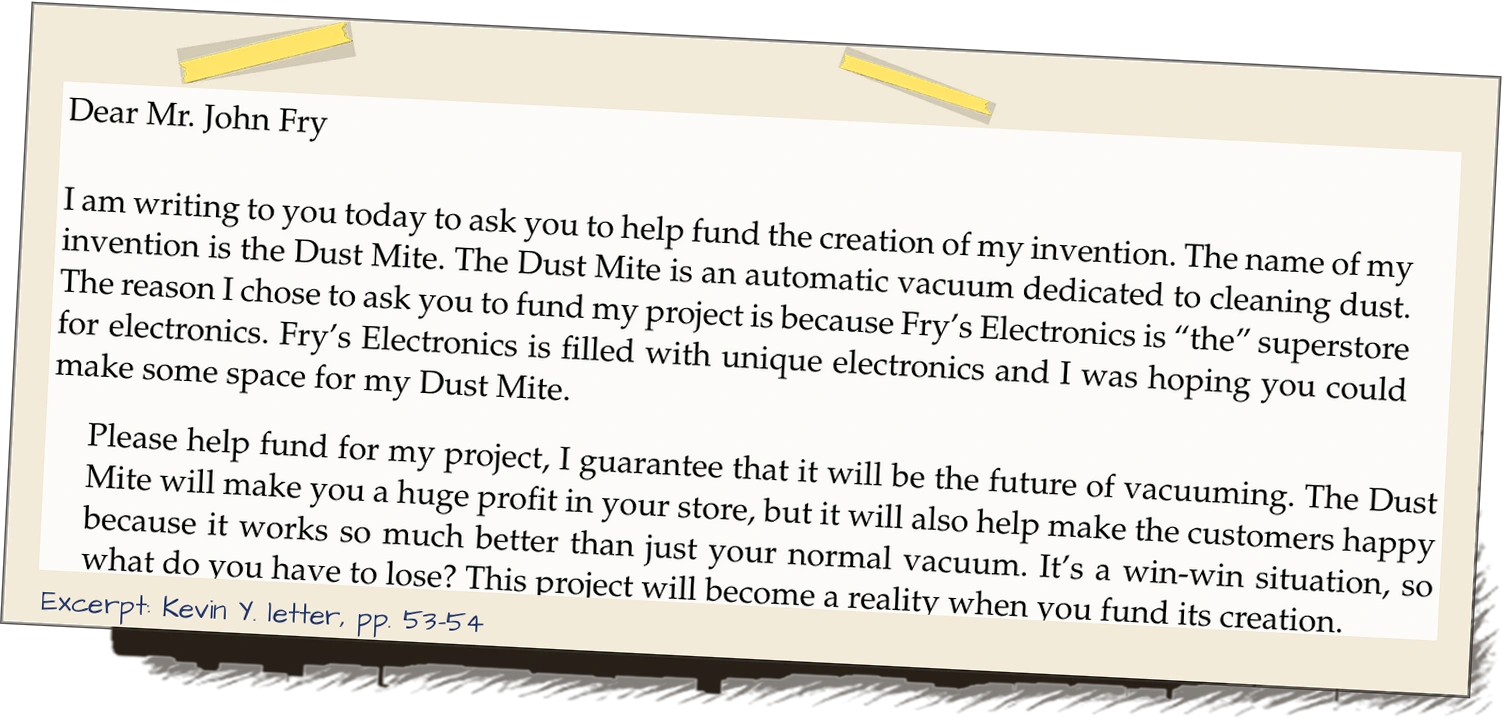
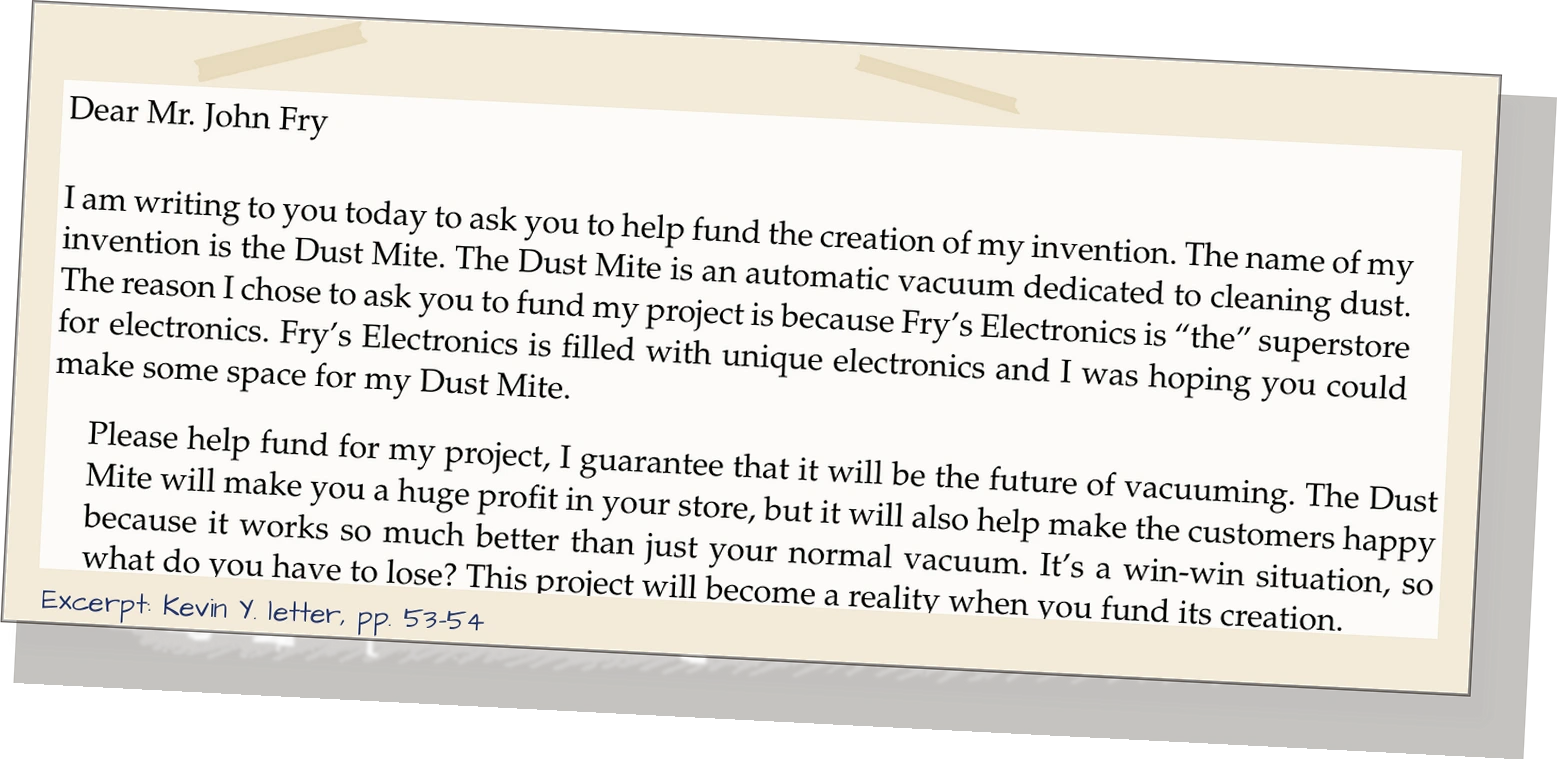
fix(diy-pbl): Leo final Round 6 card chrome, crops, and placement
Beige masking tape (#E6D8B8 @ 85%) with torn ends; soft hatch only (no
solid bar). Cards ~53.5% stage width, vertically centered, ≥3% clear of
idea text. p10 drops Deadline (8 rows); p21 cuts at Able-to-Teach rule;
p22 ends on time.; p06 ends on apartment.

diff --git a/public/diy-pbl-bookshare/bs-data.js b/public/diy-pbl-bookshare/bs-data.js
@@ -104,10 +104,10 @@ export const SLIDES = [
     "onArt": true,
     "figure": {
       "src": "figure.webp",
-      "x": 884,
-      "y": 225,
-      "w": 1000,
-      "h": 610,
+      "x": 857,
+      "y": 230,
+      "w": 1027,
+      "h": 620,
       "rot": 0
     }
   },
@@ -130,9 +130,9 @@ export const SLIDES = [
     "onArt": true,
     "figure": {
       "src": "figure.webp",
-      "x": 1147,
-      "y": 40,
-      "w": 737,
+      "x": 1158,
+      "y": 50,
+      "w": 726,
       "h": 980,
       "rot": 0
     }
@@ -191,10 +191,10 @@ export const SLIDES = [
     "onArt": true,
     "figure": {
       "src": "figure.webp",
-      "x": 884,
-      "y": 341,
-      "w": 1000,
-      "h": 377,
+      "x": 857,
+      "y": 226,
+      "w": 1027,
+      "h": 627,
       "rot": 0
     }
   },
@@ -251,10 +251,10 @@ export const SLIDES = [
     "onArt": true,
     "figure": {
       "src": "figure.webp",
-      "x": 884,
-      "y": 291,
-      "w": 1000,
-      "h": 477,
+      "x": 857,
+      "y": 290,
+      "w": 1027,
+      "h": 500,
       "rot": 0
     }
   },
@@ -331,9 +331,9 @@ export const SLIDES = [
     "onArt": true,
     "figure": {
       "src": "figure.webp",
-      "x": 926,
-      "y": 40,
-      "w": 958,
+      "x": 935,
+      "y": 50,
+      "w": 949,
       "h": 980,
       "rot": 0
     }
@@ -412,9 +412,9 @@ export const SLIDES = [
     "onArt": true,
     "figure": {
       "src": "figure.webp",
-      "x": 1289,
-      "y": 40,
-      "w": 595,
+      "x": 1312,
+      "y": 50,
+      "w": 572,
       "h": 980,
       "rot": 0
     }
@@ -438,10 +438,10 @@ export const SLIDES = [
     "onArt": true,
     "figure": {
       "src": "figure.webp",
-      "x": 884,
-      "y": 298,
-      "w": 1000,
-      "h": 464,
+      "x": 857,
+      "y": 331,
+      "w": 1027,
+      "h": 418,
       "rot": 0
     }
   },
@@ -499,10 +499,10 @@ export const SLIDES = [
     "onArt": true,
     "figure": {
       "src": "figure.webp",
-      "x": 884,
-      "y": 301,
-      "w": 1000,
-      "h": 457,
+      "x": 857,
+      "y": 300,
+      "w": 1027,
+      "h": 479,
       "rot": 0
     }
   },

diff --git a/public/diy-pbl-bookshare/bs-pages.js b/public/diy-pbl-bookshare/bs-pages.js
@@ -100,15 +100,15 @@ const IDEA_BY_ART = {
   s14: { x: 110, y: 200, w: 760, h: 560, rot: 1 },
   s15: { x: 110, y: 200, w: 720, h: 560, rot: -1 },
   s16: { x: 110, y: 200, w: 860, h: 560, rot: 1 },
-  r6a: { x: 90, y: 160, w: 820, h: 720, rot: -1 },
-  r6b: { x: 90, y: 160, w: 820, h: 720, rot: 1 },
-  r6c: { x: 90, y: 160, w: 820, h: 720, rot: -1 },
-  r6d: { x: 80, y: 140, w: 900, h: 780, rot: 1 },
-  r6e: { x: 90, y: 160, w: 820, h: 720, rot: -1 },
-  r6f: { x: 90, y: 160, w: 820, h: 720, rot: 1 },
-  r6h: { x: 90, y: 160, w: 820, h: 720, rot: -1 },
-  r6i: { x: 90, y: 160, w: 820, h: 720, rot: 1 },
-  r6j: { x: 90, y: 160, w: 820, h: 720, rot: -1 },
+  r6a: { x: 72, y: 150, w: 700, h: 720, rot: -1 },
+  r6b: { x: 72, y: 150, w: 700, h: 720, rot: 1 },
+  r6c: { x: 72, y: 150, w: 700, h: 720, rot: -1 },
+  r6d: { x: 72, y: 150, w: 700, h: 720, rot: 1 },
+  r6e: { x: 72, y: 150, w: 700, h: 720, rot: -1 },
+  r6f: { x: 72, y: 150, w: 700, h: 720, rot: 1 },
+  r6h: { x: 72, y: 150, w: 700, h: 720, rot: -1 },
+  r6i: { x: 72, y: 150, w: 700, h: 720, rot: 1 },
+  r6j: { x: 72, y: 150, w: 700, h: 720, rot: -1 },
 };
 
 const KT_ROTS = [-2, 1.5, -1, 2, 1, -2.5, 2, -1];

diff --git a/public/diy-pbl-bookshare/bs.css b/public/diy-pbl-bookshare/bs.css
@@ -1917,6 +1917,6 @@ body.fl-full .bs-design-layer .bs-paper-group .bs-apa li {
 .bs-scene .bs-r6-figure {
   object-fit: contain !important;
   object-position: center center !important;
-  filter: drop-shadow(2px 3px 4px rgba(40, 35, 30, 0.18));
+  filter: drop-shadow(1px 2px 3px rgba(40, 35, 30, 0.10));
   z-index: 4;
 }
